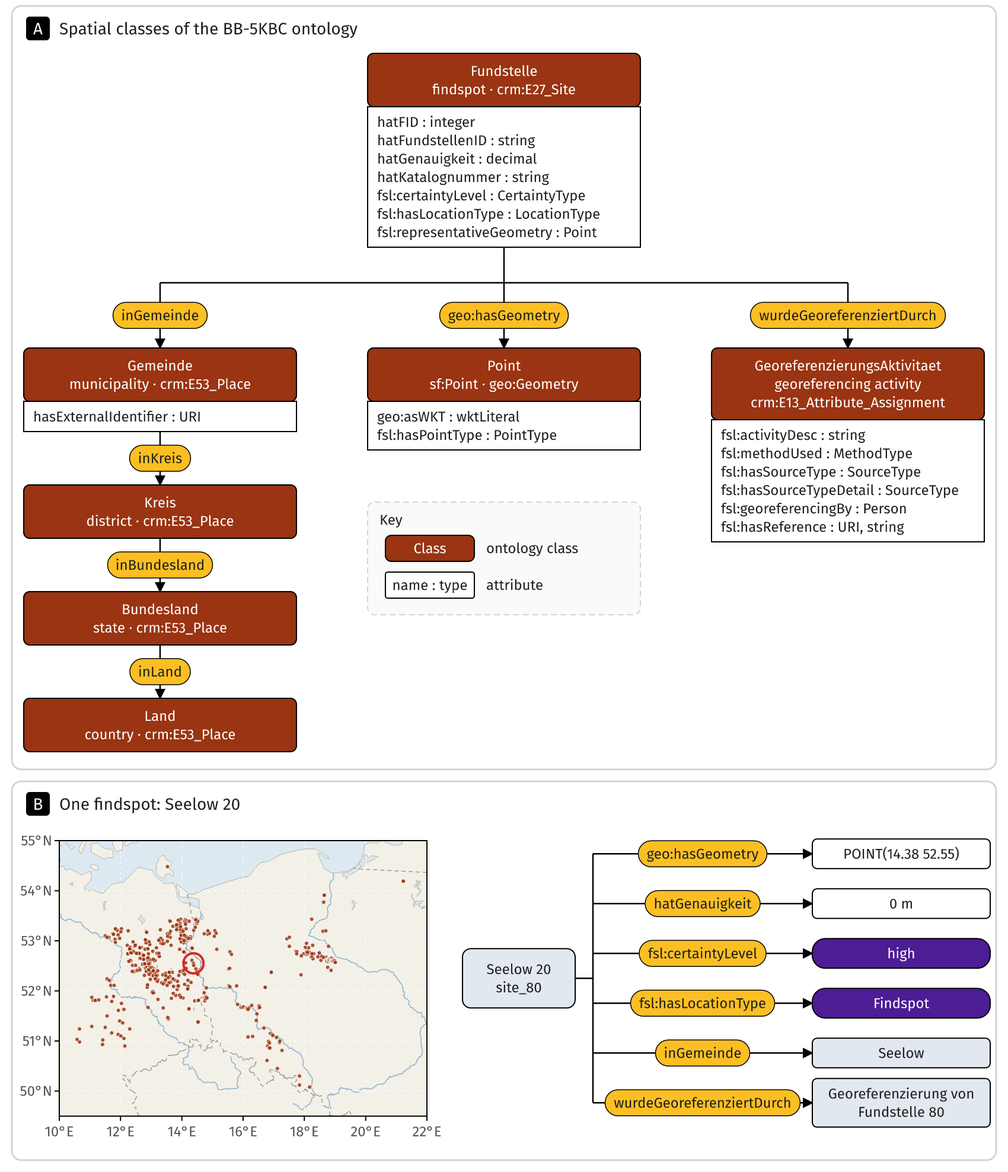
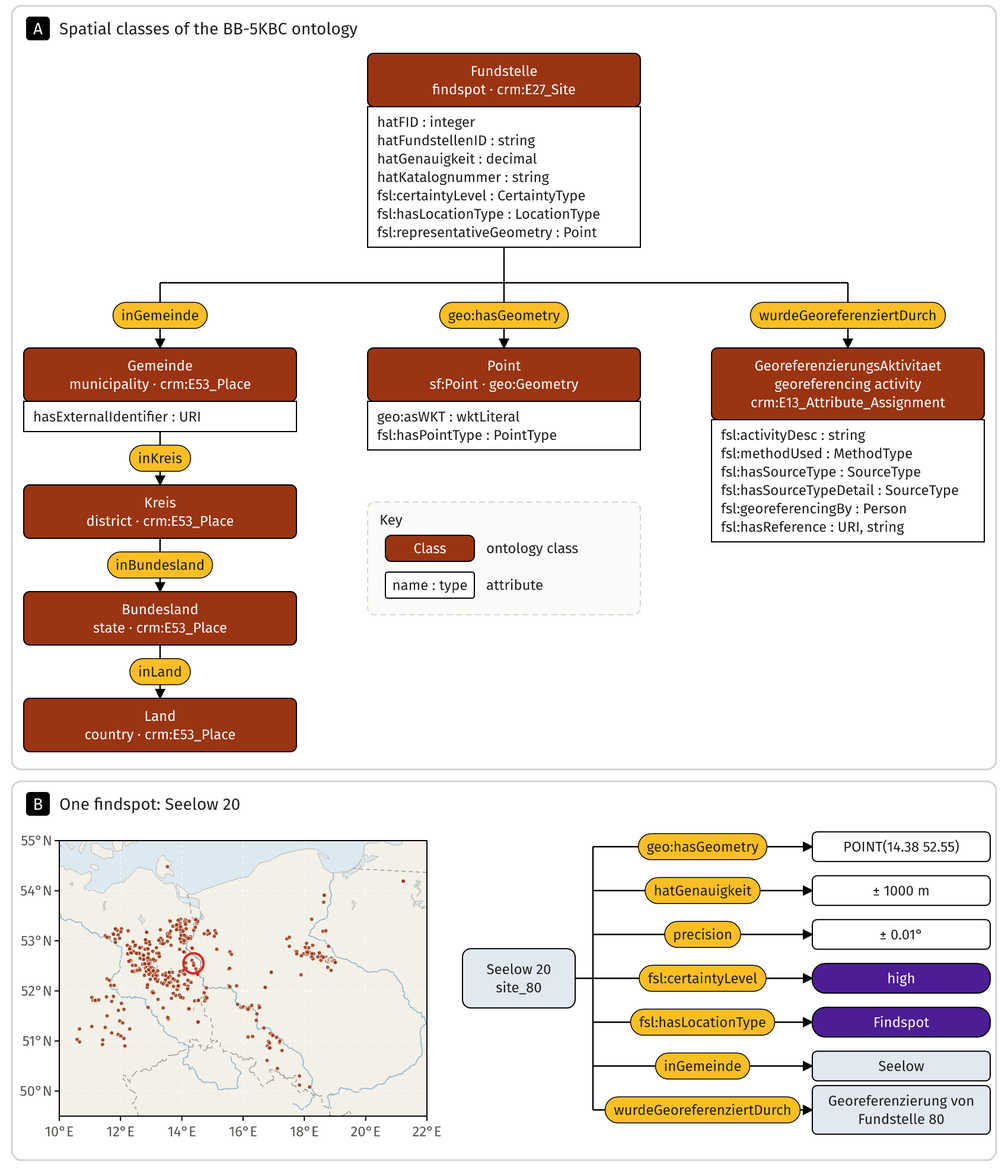
Fig. 5: accuracy +-1000 m and precision +-0.01 degrees for Seelow 20
Claude-Session: https://claude.ai/code/session_0145BdeBL6JEDb3HE12Py9VZ

Changed region(s): [[0.5924, 0.7097, 0.9976, 0.9874]]

diff --git a/docs/derse26_geographs/index.html b/docs/derse26_geographs/index.html
@@ -16,7 +16,7 @@ figure.new{border-color:#c2410c;background:#fff}figcaption{font-weight:500;color
 </style></head><body>
 <header><h1>From Relations to Graphs: figures, submitted and new</h1><div class="meta">deRSE26 / ECEASST, revision of November 2026. Click an image to enlarge, Esc or click to close.</div></header>
 <main><table><tr><td><b>No.</b></td><td><b>Figure</b></td><td><b>Section</b></td><td><b>Status</b></td></tr><tr><td><a href="#fig1">Fig. 1</a></td><td>Federated Knowledge Graph Ecosystem</td><td>§1 Introduction</td><td><span class="chip" style="background:#55544f">keep as submitted</span></td></tr><tr><td><a href="#fig2">Fig. 2</a></td><td>Ogham stone in Wikidata and the fuzzy-sl Wikibase</td><td>§5.1 Wikidata</td><td><span class="chip" style="background:#55544f">keep as submitted</span></td></tr><tr><td><a href="#fig3">Fig. 3</a></td><td>Schematic data model of the fuzzy-sl Wikibase</td><td>§5.2 fuzzy-sl</td><td><span class="chip" style="background:#166534">new figure ready</span></td></tr><tr><td><a href="#fig4">Fig. 4</a></td><td>Campanian Ignimbrite findspots in the fuzzy-sl Wikibase</td><td>§5.2 fuzzy-sl</td><td><span class="chip" style="background:#166534">new figure ready</span></td></tr><tr><td><a href="#fig5">Fig. 5</a></td><td>The bb5kbc ontology (spatial part)</td><td>§5.3 BB-5KBC</td><td><span class="chip" style="background:#166534">new figure ready</span></td></tr><tr><td><a href="#fig6">Fig. 6</a></td><td>Ontology scheme of the palaeoclimate pipeline</td><td>§5.4 Pipeline</td><td><span class="chip" style="background:#166534">new figure ready</span></td></tr><tr><td><a href="#fig7">Fig. 7</a></td><td>CI instances</td><td>§5.4 Pipeline</td><td><span class="chip" style="background:#166534">new figure ready</span></td></tr><tr><td><a href="#fig8">Fig. 8</a></td><td>Big Exchange meta path</td><td>§5.6 HIN</td><td><span class="chip" style="background:#55544f">keep as submitted</span></td></tr><tr><td><a href="#fig9">Fig. 9</a></td><td>ArNO ontology modules</td><td>§5.7 HIN to KG</td><td><span class="chip" style="background:#55544f">keep as submitted</span></td></tr><tr><td><a href="#fig10">Fig. 10</a></td><td>Mapping of HIN node types to ArNO classes</td><td>§5.7 HIN to KG</td><td><span class="chip" style="background:#166534">new figure ready</span></td></tr><tr><td><a href="#z2">Z2</a></td><td>One Ogham stone in five modelling styles</td><td>§3 or §4 (placement open)</td><td><span class="chip" style="background:#166534">new figure ready</span></td></tr><tr><td><a href="#z3">Z3</a></td><td>Where the showcases are</td><td>§5 (overview)</td><td><span class="chip" style="background:#166534">new figure ready</span></td></tr></table>
-<section id="fig1"><h2><span class="num">Fig. 1</span> Federated Knowledge Graph Ecosystem <span class="chip" style="background:#55544f">keep as submitted</span></h2><p class="sec">§1 Introduction</p><div class="pair"><figure><figcaption>Submitted</figcaption><a href="gallery/old/fkge.jpg" class="zoom "><img loading="lazy" src="gallery/old/fkge.jpg" alt="Federated Knowledge Graph Ecosystem"></a><p class="cap">Scheme of the Federated Knowledge Graph Ecosystem. Licence -- Florian Thiery &amp; Andreas Noback, CC BY 4.0</p></figure><figure class="new none"><figcaption>New</figcaption><div class="empty">no new version yet</div></figure></div><ul><li>Source: thiery_stones_2026, Fig. 1</li><li>Typo &quot;Publikation&quot; in the image (to be fixed at the source)</li></ul></section><section id="fig2"><h2><span class="num">Fig. 2</span> Ogham stone in Wikidata and the fuzzy-sl Wikibase <span class="chip" style="background:#55544f">keep as submitted</span></h2><p class="sec">§5.1 Wikidata</p><div class="pair"><figure><figcaption>Submitted</figcaption><a href="gallery/old/ogham-wikidata.jpg" class="zoom "><img loading="lazy" src="gallery/old/ogham-wikidata.jpg" alt="Ogham stone in Wikidata and the fuzzy-sl Wikibase"></a><p class="cap">Ogham Stone CIIC 81 and its spatial locations in Wikidata and the fuzzy-sl Wikibase. Licence -- Florian Thiery, CC BY 4.0; (A) Wikidata Community, Public Domain; (B) Florian Thiery, CC BY-NC-SA 4.0; (C/E) Research Squirrel Engineers Network, CC BY 4.0; (E) \copyright~\&#x27;O R\&#x27;{\i}ord\&#x27;ain and Ryan; (F) OpenStreetMap Contributors, Open Database License.</p></figure><figure class="new none"><figcaption>New</figcaption><div class="empty">no new version yet</div></figure></div><ul><li>Screenshots; z2 (below) can complement it as a model comparison</li><li>Reviewer C refers to &quot;Section 5, Figure 2&quot;: probably this figure (assumption)</li></ul></section><section id="fig3"><h2><span class="num">Fig. 3</span> Schematic data model of the fuzzy-sl Wikibase <span class="chip" style="background:#166534">new figure ready</span></h2><p class="sec">§5.2 fuzzy-sl</p><div class="pair"><figure><figcaption>Submitted</figcaption><a href="gallery/old/fuzzy-sl_Wikibase.jpg" class="zoom "><img loading="lazy" src="gallery/old/fuzzy-sl_Wikibase.jpg" alt="Schematic data model of the fuzzy-sl Wikibase"></a><p class="cap">Schematic data model of the fuzzy-sl Wikibase. License -- Florian Thiery, CC BY 4.0.</p></figure><figure class="new"><figcaption>New</figcaption><a href="out/fig3_fuzzysl_datamodel.png" class="zoom "><img loading="lazy" src="out/fig3_fuzzysl_datamodel.png" alt="Schematic data model of the fuzzy-sl Wikibase"></a><p class="cap">Data model of the fuzzy-sl Wikibase. (GLM) Geolocation metadata: a fuzzy-sl entity has a label and a description and is described by its instance type (P1), project (P3), literature reference (P11), related external resource with its relation type (P10, qP12), spatial type (P8), spatial category (P26), the administrative territorial entity in Wikidata (P32) and its coordinate (P4). (CM) Coordinate metadata: the coordinate statement carries ten qualifiers (solid arrows: certainty level and description, method used and description, acting person, source type in generic and detailed form, location type, point type and precision) and three reference properties (dashed arrows: reference URL, reference string, reference item). Grey: instance; purple: vocabulary item with its Q number; dashed outline: external resource; white: literal; black: coordinate. Property labels and classes are those of the static copy of the fuzzy-sl Wikibase. Licence: Florian Thiery, CC BY 4.0.</p></figure></div><ul><li>Redrawn after the old picture (same nodes, properties and arrows); labels, datatypes and classes read from the static Wikibase copy</li><li>Same model as Fig. 4B of Thiery et al. 2026 (JOHD 12:10); P26 (has spatial category) added because the old picture omitted it</li><li>Layout stacked (GLM above CM) because 24 px type needs the width; the old picture placed CM left of GLM</li></ul></section><section id="fig4"><h2><span class="num">Fig. 4</span> Campanian Ignimbrite findspots in the fuzzy-sl Wikibase <span class="chip" style="background:#166534">new figure ready</span></h2><p class="sec">§5.2 fuzzy-sl</p><div class="pair"><figure><figcaption>Submitted</figcaption><a href="gallery/old/ci-fuzzy-sl-wikibase.jpg" class="zoom "><img loading="lazy" src="gallery/old/ci-fuzzy-sl-wikibase.jpg" alt="Campanian Ignimbrite findspots in the fuzzy-sl Wikibase"></a><p class="cap">Geospatial modelling of Campanian Ignimbrite Findspots within the fuzzy-sl Wikibase. Licence -- Florian Thiery &amp; Fiona Schenk, CC BY 4.0; OSM maps: OpenStreetMap Contributors, Open Database License.</p></figure><figure class="new"><figcaption>New</figcaption><a href="out/fig4_ci_findspots.png" class="zoom "><img loading="lazy" src="out/fig4_ci_findspots.png" alt="Campanian Ignimbrite findspots in the fuzzy-sl Wikibase"></a><p class="cap">Campanian Ignimbrite findspots in the geo-lod graph and one coordinate statement in the fuzzy-sl Wikibase. (A) The 74 findspots, distinguished by whether they are typed as archaeological sites (12) or not (62); dashed rings mark 500 km and 1000 km from the Phlegraean Fields, the source area of the eruption. (B) The coordinate statement of Auel Maar AU3 (Q70) with its qualifiers: certainty level and description, method, acting person, source type, precision, location and point type, and the literature reference. Purple: vocabulary terms; grey: items; white: literals. The inset map shows the Eifel around the Auel Maar with rivers, borders, Cologne and Daun. Licence: Florian Thiery and Fiona Schenk, CC BY 4.0; base map: Natural Earth, public domain.</p></figure></div><ul><li>v3: archaeology vs. other, Auel Maar AU3 from the static Wikibase copy, minimap</li><li>Static Wikibase has 19 CI items, the graph 74</li></ul></section><section id="fig5"><h2><span class="num">Fig. 5</span> The bb5kbc ontology (spatial part) <span class="chip" style="background:#166534">new figure ready</span></h2><p class="sec">§5.3 BB-5KBC</p><div class="pair"><figure><figcaption>Submitted</figcaption><a href="gallery/old/bb-5kbc-ontology.jpg" class="zoom "><img loading="lazy" src="gallery/old/bb-5kbc-ontology.jpg" alt="The bb5kbc ontology (spatial part)"></a><p class="cap">The bb5kbc Ontology. Licence -- Florian Thiery &amp; Sophie C. Schmidt, CC BY 4.0.</p></figure><figure class="new"><figcaption>New</figcaption><a href="out/fig5_bb5kbc_spatial.png" class="zoom "><img loading="lazy" src="out/fig5_bb5kbc_spatial.png" alt="The bb5kbc ontology (spatial part)"></a><p class="cap">Spatial part of the BB-5KBC ontology. (A) Classes and properties around the place of a findspot: a Fundstelle (CIDOC CRM E27 Site) lies in a municipality (Gemeinde), district (Kreis), federal state (Bundesland) and country (Land), has a GeoSPARQL point geometry with a WKT literal, and was georeferenced by a georeferencing activity (E13 Attribute Assignment) that records method, source type and person. Dark orange: classes; white boxes: attributes with their datatypes; amber: properties. (B) One of the 540 findspots, Pyritz – Weinberg, on the map and as an instance: the point geometry, its accuracy, the certainty level and location type from the fuzzy-sl vocabulary, the municipality and the georeferencing activity. Data: BB-5KBC bundle (commit c2e989b); base map: Natural Earth. Licence: Florian Thiery &amp; Sophie C. Schmidt, CC BY 4.0.</p></figure></div><ul><li>Redrawn from data/bb5kbc-bundle.ttl (bb-5kbc-public, commit c2e989b, 2026-09-15; 540 findspots); the old picture was a Mermaid class diagram</li><li>Geo focus: only the spatial classes (Fundstelle, Gemeinde, Kreis, Bundesland, Land, Point, GeoreferenzierungsAktivitaet); the non-geo classes are omitted and could go into a supplement version</li><li>The data model has changed since the old picture (geo:hasGeometry, fsl certainty and location type, georeferencing activity); every property is asserted against the bundle</li></ul></section><section id="fig6"><h2><span class="num">Fig. 6</span> Ontology scheme of the palaeoclimate pipeline <span class="chip" style="background:#166534">new figure ready</span></h2><p class="sec">§5.4 Pipeline</p><div class="pair"><figure><figcaption>Submitted</figcaption><a href="gallery/old/taxonomy.jpg" class="zoom "><img loading="lazy" src="gallery/old/taxonomy.jpg" alt="Ontology scheme of the palaeoclimate pipeline"></a><p class="cap">Ontology Scheme of the Palaeoclimate Data Processing Pipeline (GeoSciece-FAIRification-LOD). Licence -- Florian Thiery &amp; Fiona Schenk, CC BY 4.0.</p></figure><figure class="new"><figcaption>New</figcaption><a href="out/fig6_place_taxonomy.png" class="zoom "><img loading="lazy" src="out/fig6_place_taxonomy.png" alt="Ontology scheme of the palaeoclimate pipeline"></a><p class="cap">Modelling places in the geo-lod ontologies. (A) The place classes and their anchors in CIDOC CRM, CRMarchaeo and fuzzy-sl; hollow arrows are rdfs:subClassOf statements of the ontology files (geo_lod_core.ttl, crm_bridging.ttl, sisal_ontology.ttl, epica_ontology.ttl). Sampling locations (drilling site, borehole, cave) and Campanian Ignimbrite findspots both specialise crm:E27_Site; the archaeological variants additionally inherit from crmarchaeo:A2_Stratigraphic_Volume_Unit. (B) The geometry of a place: a geo:Feature has a geo:Geometry (sf:Point, which CRMgeo reads as a declarative place; its inheritance from geo:Geometry is defined by GeoSPARQL and Simple Features, not by the ontology files) whose coordinates are a geo:wktLiteral. Dark orange: classes of the geo-lod ontologies; white: external classes; amber: property. Licence: Florian Thiery and Fiona Schenk, CC BY 4.0.</p></figure></div><ul><li>Slice: place classes and geometry pattern; the full scheme could move to the supplement</li><li>&quot;GeoSciece&quot; typo disappears with the new figure</li></ul></section><section id="fig7"><h2><span class="num">Fig. 7</span> CI instances <span class="chip" style="background:#166534">new figure ready</span></h2><p class="sec">§5.4 Pipeline</p><div class="pair"><figure><figcaption>Submitted</figcaption><a href="gallery/old/instance_ci.jpg" class="zoom "><img loading="lazy" src="gallery/old/instance_ci.jpg" alt="CI instances"></a><p class="cap">CI Instances Scheme. Licence -- Florian Thiery &amp; Fiona Schenk, CC BY 4.0.</p></figure><figure class="new"><figcaption>New</figcaption><a href="out/fig7_ci_instances.png" class="zoom "><img loading="lazy" src="out/fig7_ci_instances.png" alt="CI instances"></a><p class="cap">Two Campanian Ignimbrite findspots as instances in the geo-lod graph: (A) Toplitsa Cave (Bulgaria, ci:cisite_44) and (B) Franchthi Cave (Greece, ci:cisite_45). Both are typed as fsl:Site and geolod:CIArchaeologicalSite (a selection of their types is shown), carry the geometry as an sf:Point with a geo:asWKT literal and the fuzzy-sl certainty level, certainty description and literature reference, are aligned to Wikidata and OpenStreetMap via skos:closeMatch, and name the pipeline activity that generated them. The coordinate reference system prefix of the WKT literal is omitted. Colours: dark orange classes, purple vocabulary terms, grey instances, white literals. Minimaps: all 74 findspots (filled: archaeological site), the findspot of the panel ringed in red; country borders and major rivers from Natural Earth. Licence: Florian Thiery and Fiona Schenk, CC BY 4.0.</p></figure></div><ul><li>Toplitsa and Franchthi, every value read from the graph</li><li>Text says 9 archaeological sites, the graph has 12</li></ul></section><section id="fig8"><h2><span class="num">Fig. 8</span> Big Exchange meta path <span class="chip" style="background:#55544f">keep as submitted</span></h2><p class="sec">§5.6 HIN</p><div class="pair"><figure><figcaption>Submitted</figcaption><a href="gallery/old/BigExchangeMetaPath.jpg" class="zoom "><img loading="lazy" src="gallery/old/BigExchangeMetaPath.jpg" alt="Big Exchange meta path"></a><p class="cap">The meta path connecting two materials through finds of these materials that are found in sites with geolocations that share a spatially similar geolocation. Licence -- Mattis thor Straten et al., CC BY 4.0.</p></figure><figure class="new none"><figcaption>New</figcaption><div class="empty">no new version yet</div></figure></div><ul><li>From thor Straten et al. (CC BY 4.0); keeps its own look</li></ul></section><section id="fig9"><h2><span class="num">Fig. 9</span> ArNO ontology modules <span class="chip" style="background:#55544f">keep as submitted</span></h2><p class="sec">§5.7 HIN to KG</p><div class="pair"><figure><figcaption>Submitted</figcaption><a href="gallery/old/ARNO.jpg" class="zoom "><img loading="lazy" src="gallery/old/ARNO.jpg" alt="ArNO ontology modules"></a><p class="cap">The ontologies combined in the ArNO ontology grouped by the concept domain they are used for. Licence -- Mattis thor Straten et al., CC BY 4.0.</p></figure><figure class="new none"><figcaption>New</figcaption><div class="empty">no new version yet</div></figure></div><ul><li>Low resolution (644 x 671 px): ask for a better source</li></ul></section><section id="fig10"><h2><span class="num">Fig. 10</span> Mapping of HIN node types to ArNO classes <span class="chip" style="background:#166534">new figure ready</span></h2><p class="sec">§5.7 HIN to KG</p><div class="pair"><figure><figcaption>Submitted</figcaption><a href="gallery/old/ARNONetworkSchema.jpg" class="zoom "><img loading="lazy" src="gallery/old/ARNONetworkSchema.jpg" alt="Mapping of HIN node types to ArNO classes"></a><p class="cap">The mapping of the spatial node types of the HIN networks schema (on the right) to the hierarchical ArNO ontology classes. Licence -- Mattis thor Straten et al., CC BY 4.0.</p></figure><figure class="new"><figcaption>New</figcaption><a href="out/fig10_arno_spatial.png" class="zoom "><img loading="lazy" src="out/fig10_arno_spatial.png" alt="Mapping of HIN node types to ArNO classes"></a><p class="cap">Spatial classes of the Archaeo-Natural Ontology (ArNO) and their use in the Poseidon network schema. (A) Class hierarchy: hollow arrows point from a subclass to its superclass; the four classes defined in ArNO (red outline, Discovery Site, Site, Place, Country) sit below the Pleiades, LADO, GeoSPARQL and CIDOC CRM classes that they extend. (B) The spatial node types of the Poseidon network: an ancient DNA sample is found at a discovery site, which lies at a site, at a place, in a country; the discovery site has a point geometry with a WKT literal, and the nodes carry labels and, for the country, an ISO code. Dark orange: classes; white: literals; amber: object and data properties. Redrawn after Mattis thor Straten et al. (2025) from ArNO and poseidon2lod. Licence: Mattis thor Straten and Florian Thiery, CC BY 4.0.</p></figure></div><ul><li>Redrawn from data/ArNO.ttl (commit 5b1ad40) and poseidon2lod; the old picture mixed a Protege screenshot with a slide</li><li>Differences to the old picture (to be checked with Mattis thor Straten): only the Discovery Site has a geometry in poseidon2lod (the old picture also gave the Site a WKT point); ArNO.ttl spells disovery in the label of foundAtDiscoverySite (corrected in the figure)</li><li>Licence of the old picture: Mattis thor Straten et al., CC BY 4.0; the new figure is a redraw, say so in the caption</li></ul></section><section id="z2"><h2><span class="num">New Z2</span> One Ogham stone in five modelling styles <span class="chip" style="background:#166534">new figure ready</span></h2><p class="sec">§3 or §4 (placement open)</p><div class="pair single"><figure class="new"><a href="out/z2_one_stone_five_models.png" class="zoom "><img loading="lazy" src="out/z2_one_stone_five_models.png" alt="One Ogham stone in five modelling styles"></a><p class="cap">One coordinate in five modelling styles, shown for the Ogham stone Coumeenole North (Macalister 1945, textual description). (A) Wikidata: coordinate location with its qualifiers. (B) fuzzy-sl Wikibase: the coordinate statement carries certainty level, method, precision and location type as qualifiers. (C) RDF with GeoSPARQL: the point is a geo:asWKT literal of a geometry resource. (D) Labelled property graph: the point is a property of the node. (E) Heterogeneous information network: the point is a node of its own, so that nearby geolocations can be linked by distance classes. Red outline: where the coordinate sits. Data: Wikidata (CC0), fuzzy-sl Wikibase, Florian Thiery, CC BY 4.0.</p></figure></div><ul><li>Panel A read from data/wd/ (fetch_wd.py, run on the Windows machine)</li></ul></section><section id="z3"><h2><span class="num">New Z3</span> Where the showcases are <span class="chip" style="background:#166534">new figure ready</span></h2><p class="sec">§5 (overview)</p><div class="pair single"><figure class="new"><a href="out/z3_showcase_map.png" class="zoom "><img loading="lazy" src="out/z3_showcase_map.png" alt="Where the showcases are"></a><p class="cap">Where the spatial showcases are. (A) Europe and the Mediterranean: coordinate statements of the fuzzy-sl Wikibase (61; Ogham stones, Roman Britain, Bruttium coin finds, Campanian Ignimbrite and others), the Campanian Ignimbrite findspots of the geo-lod graph (74) and the BB-5KBC findspots (540). (B) The 365 SISAL caves of the geo-lod graph; the red frame marks panel A. The property-graph and HIN showcases are not mapped because they have no point dataset of their own. Base map: Natural Earth, public domain.</p></figure></div><ul><li>Colour = infrastructure (Wikibase vs. bespoke RDF pipeline); LPG and HIN showcases have no point data</li></ul></section><section id="unused"><h2><span class="num">Not used</span> Map of the Moselle (not referenced in the LaTeX source)</h2><div class="pair single"><figure><a href="gallery/old/moselkarte.jpg" class="zoom "><img loading="lazy" src="gallery/old/moselkarte.jpg" alt="Map of the Moselle (not referenced in the LaTeX source)"></a></figure></div><ul><li>Decision pending: drop it or use it as an orientation map</li></ul></section></main>
+<section id="fig1"><h2><span class="num">Fig. 1</span> Federated Knowledge Graph Ecosystem <span class="chip" style="background:#55544f">keep as submitted</span></h2><p class="sec">§1 Introduction</p><div class="pair"><figure><figcaption>Submitted</figcaption><a href="gallery/old/fkge.jpg" class="zoom "><img loading="lazy" src="gallery/old/fkge.jpg" alt="Federated Knowledge Graph Ecosystem"></a><p class="cap">Scheme of the Federated Knowledge Graph Ecosystem. Licence -- Florian Thiery &amp; Andreas Noback, CC BY 4.0</p></figure><figure class="new none"><figcaption>New</figcaption><div class="empty">no new version yet</div></figure></div><ul><li>Source: thiery_stones_2026, Fig. 1</li><li>Typo &quot;Publikation&quot; in the image (to be fixed at the source)</li></ul></section><section id="fig2"><h2><span class="num">Fig. 2</span> Ogham stone in Wikidata and the fuzzy-sl Wikibase <span class="chip" style="background:#55544f">keep as submitted</span></h2><p class="sec">§5.1 Wikidata</p><div class="pair"><figure><figcaption>Submitted</figcaption><a href="gallery/old/ogham-wikidata.jpg" class="zoom "><img loading="lazy" src="gallery/old/ogham-wikidata.jpg" alt="Ogham stone in Wikidata and the fuzzy-sl Wikibase"></a><p class="cap">Ogham Stone CIIC 81 and its spatial locations in Wikidata and the fuzzy-sl Wikibase. Licence -- Florian Thiery, CC BY 4.0; (A) Wikidata Community, Public Domain; (B) Florian Thiery, CC BY-NC-SA 4.0; (C/E) Research Squirrel Engineers Network, CC BY 4.0; (E) \copyright~\&#x27;O R\&#x27;{\i}ord\&#x27;ain and Ryan; (F) OpenStreetMap Contributors, Open Database License.</p></figure><figure class="new none"><figcaption>New</figcaption><div class="empty">no new version yet</div></figure></div><ul><li>Screenshots; z2 (below) can complement it as a model comparison</li><li>Reviewer C refers to &quot;Section 5, Figure 2&quot;: probably this figure (assumption)</li></ul></section><section id="fig3"><h2><span class="num">Fig. 3</span> Schematic data model of the fuzzy-sl Wikibase <span class="chip" style="background:#166534">new figure ready</span></h2><p class="sec">§5.2 fuzzy-sl</p><div class="pair"><figure><figcaption>Submitted</figcaption><a href="gallery/old/fuzzy-sl_Wikibase.jpg" class="zoom "><img loading="lazy" src="gallery/old/fuzzy-sl_Wikibase.jpg" alt="Schematic data model of the fuzzy-sl Wikibase"></a><p class="cap">Schematic data model of the fuzzy-sl Wikibase. License -- Florian Thiery, CC BY 4.0.</p></figure><figure class="new"><figcaption>New</figcaption><a href="out/fig3_fuzzysl_datamodel.png" class="zoom "><img loading="lazy" src="out/fig3_fuzzysl_datamodel.png" alt="Schematic data model of the fuzzy-sl Wikibase"></a><p class="cap">Data model of the fuzzy-sl Wikibase. (GLM) Geolocation metadata: a fuzzy-sl entity has a label and a description and is described by its instance type (P1), project (P3), literature reference (P11), related external resource with its relation type (P10, qP12), spatial type (P8), spatial category (P26), the administrative territorial entity in Wikidata (P32) and its coordinate (P4). (CM) Coordinate metadata: the coordinate statement carries ten qualifiers (solid arrows: certainty level and description, method used and description, acting person, source type in generic and detailed form, location type, point type and precision) and three reference properties (dashed arrows: reference URL, reference string, reference item). Grey: instance; purple: vocabulary item with its Q number; dashed outline: external resource; white: literal; black: coordinate. Property labels and classes are those of the static copy of the fuzzy-sl Wikibase. Licence: Florian Thiery, CC BY 4.0.</p></figure></div><ul><li>Redrawn after the old picture (same nodes, properties and arrows); labels, datatypes and classes read from the static Wikibase copy</li><li>Same model as Fig. 4B of Thiery et al. 2026 (JOHD 12:10); P26 (has spatial category) added because the old picture omitted it</li><li>Layout stacked (GLM above CM) because 24 px type needs the width; the old picture placed CM left of GLM</li></ul></section><section id="fig4"><h2><span class="num">Fig. 4</span> Campanian Ignimbrite findspots in the fuzzy-sl Wikibase <span class="chip" style="background:#166534">new figure ready</span></h2><p class="sec">§5.2 fuzzy-sl</p><div class="pair"><figure><figcaption>Submitted</figcaption><a href="gallery/old/ci-fuzzy-sl-wikibase.jpg" class="zoom "><img loading="lazy" src="gallery/old/ci-fuzzy-sl-wikibase.jpg" alt="Campanian Ignimbrite findspots in the fuzzy-sl Wikibase"></a><p class="cap">Geospatial modelling of Campanian Ignimbrite Findspots within the fuzzy-sl Wikibase. Licence -- Florian Thiery &amp; Fiona Schenk, CC BY 4.0; OSM maps: OpenStreetMap Contributors, Open Database License.</p></figure><figure class="new"><figcaption>New</figcaption><a href="out/fig4_ci_findspots.png" class="zoom "><img loading="lazy" src="out/fig4_ci_findspots.png" alt="Campanian Ignimbrite findspots in the fuzzy-sl Wikibase"></a><p class="cap">Campanian Ignimbrite findspots in the geo-lod graph and one coordinate statement in the fuzzy-sl Wikibase. (A) The 74 findspots, distinguished by whether they are typed as archaeological sites (12) or not (62); dashed rings mark 500 km and 1000 km from the Phlegraean Fields, the source area of the eruption. (B) The coordinate statement of Auel Maar AU3 (Q70) with its qualifiers: certainty level and description, method, acting person, source type, precision, location and point type, and the literature reference. Purple: vocabulary terms; grey: items; white: literals. The inset map shows the Eifel around the Auel Maar with rivers, borders, Cologne and Daun. Licence: Florian Thiery and Fiona Schenk, CC BY 4.0; base map: Natural Earth, public domain.</p></figure></div><ul><li>v3: archaeology vs. other, Auel Maar AU3 from the static Wikibase copy, minimap</li><li>Static Wikibase has 19 CI items, the graph 74</li></ul></section><section id="fig5"><h2><span class="num">Fig. 5</span> The bb5kbc ontology (spatial part) <span class="chip" style="background:#166534">new figure ready</span></h2><p class="sec">§5.3 BB-5KBC</p><div class="pair"><figure><figcaption>Submitted</figcaption><a href="gallery/old/bb-5kbc-ontology.jpg" class="zoom "><img loading="lazy" src="gallery/old/bb-5kbc-ontology.jpg" alt="The bb5kbc ontology (spatial part)"></a><p class="cap">The bb5kbc Ontology. Licence -- Florian Thiery &amp; Sophie C. Schmidt, CC BY 4.0.</p></figure><figure class="new"><figcaption>New</figcaption><a href="out/fig5_bb5kbc_spatial.png" class="zoom "><img loading="lazy" src="out/fig5_bb5kbc_spatial.png" alt="The bb5kbc ontology (spatial part)"></a><p class="cap">Spatial part of the BB-5KBC ontology. (A) Classes and properties around the place of a findspot: a Fundstelle (CIDOC CRM E27 Site) lies in a municipality (Gemeinde, with external identifiers such as Wikidata, GeoNames, Getty TGN and OpenStreetMap), district (Kreis), federal state (Bundesland) and country (Land); it has a GeoSPARQL point geometry with a WKT literal, and it was georeferenced by a georeferencing activity (E13 Attribute Assignment) that records method, source type and person. Dark orange: classes; white boxes: attributes with their datatypes; amber: properties. (B) One of the 540 findspots, Seelow 20 (red ring on the map), as an instance: the point geometry, its accuracy, the certainty level and location type from the fuzzy-sl vocabulary, the municipality and the georeferencing activity. Data: BB-5KBC bundle (commit c2e989b); base map: Natural Earth. Licence: Florian Thiery &amp; Sophie C. Schmidt, CC BY 4.0.</p></figure></div><ul><li>Redrawn from data/bb5kbc-bundle.ttl (bb-5kbc-public, commit c2e989b, 2026-09-15; 540 findspots); the old picture was a Mermaid class diagram</li><li>Example findspot: Seelow 20 (site_80); its stored accuracy is 0 m although the JCM 2026 slides describe published coordinates as rounded to 2 decimals (about 1000 m): check the value</li><li>Geo focus: only the spatial classes (Fundstelle, Gemeinde, Kreis, Bundesland, Land, Point, GeoreferenzierungsAktivitaet); the non-geo classes are omitted and could go into a supplement version</li><li>The data model has changed since the old picture (geo:hasGeometry, fsl certainty and location type, georeferencing activity); every property is asserted against the bundle</li></ul></section><section id="fig6"><h2><span class="num">Fig. 6</span> Ontology scheme of the palaeoclimate pipeline <span class="chip" style="background:#166534">new figure ready</span></h2><p class="sec">§5.4 Pipeline</p><div class="pair"><figure><figcaption>Submitted</figcaption><a href="gallery/old/taxonomy.jpg" class="zoom "><img loading="lazy" src="gallery/old/taxonomy.jpg" alt="Ontology scheme of the palaeoclimate pipeline"></a><p class="cap">Ontology Scheme of the Palaeoclimate Data Processing Pipeline (GeoSciece-FAIRification-LOD). Licence -- Florian Thiery &amp; Fiona Schenk, CC BY 4.0.</p></figure><figure class="new"><figcaption>New</figcaption><a href="out/fig6_place_taxonomy.png" class="zoom "><img loading="lazy" src="out/fig6_place_taxonomy.png" alt="Ontology scheme of the palaeoclimate pipeline"></a><p class="cap">Modelling places in the geo-lod ontologies. (A) The place classes and their anchors in CIDOC CRM, CRMarchaeo and fuzzy-sl; hollow arrows are rdfs:subClassOf statements of the ontology files (geo_lod_core.ttl, crm_bridging.ttl, sisal_ontology.ttl, epica_ontology.ttl). Sampling locations (drilling site, borehole, cave) and Campanian Ignimbrite findspots both specialise crm:E27_Site; the archaeological variants additionally inherit from crmarchaeo:A2_Stratigraphic_Volume_Unit. (B) The geometry of a place: a geo:Feature has a geo:Geometry (sf:Point, which CRMgeo reads as a declarative place; its inheritance from geo:Geometry is defined by GeoSPARQL and Simple Features, not by the ontology files) whose coordinates are a geo:wktLiteral. Dark orange: classes of the geo-lod ontologies; white: external classes; amber: property. Licence: Florian Thiery and Fiona Schenk, CC BY 4.0.</p></figure></div><ul><li>Slice: place classes and geometry pattern; the full scheme could move to the supplement</li><li>&quot;GeoSciece&quot; typo disappears with the new figure</li></ul></section><section id="fig7"><h2><span class="num">Fig. 7</span> CI instances <span class="chip" style="background:#166534">new figure ready</span></h2><p class="sec">§5.4 Pipeline</p><div class="pair"><figure><figcaption>Submitted</figcaption><a href="gallery/old/instance_ci.jpg" class="zoom "><img loading="lazy" src="gallery/old/instance_ci.jpg" alt="CI instances"></a><p class="cap">CI Instances Scheme. Licence -- Florian Thiery &amp; Fiona Schenk, CC BY 4.0.</p></figure><figure class="new"><figcaption>New</figcaption><a href="out/fig7_ci_instances.png" class="zoom "><img loading="lazy" src="out/fig7_ci_instances.png" alt="CI instances"></a><p class="cap">Two Campanian Ignimbrite findspots as instances in the geo-lod graph: (A) Toplitsa Cave (Bulgaria, ci:cisite_44) and (B) Franchthi Cave (Greece, ci:cisite_45). Both are typed as fsl:Site and geolod:CIArchaeologicalSite (a selection of their types is shown), carry the geometry as an sf:Point with a geo:asWKT literal and the fuzzy-sl certainty level, certainty description and literature reference, are aligned to Wikidata and OpenStreetMap via skos:closeMatch, and name the pipeline activity that generated them. The coordinate reference system prefix of the WKT literal is omitted. Colours: dark orange classes, purple vocabulary terms, grey instances, white literals. Minimaps: all 74 findspots (filled: archaeological site), the findspot of the panel ringed in red; country borders and major rivers from Natural Earth. Licence: Florian Thiery and Fiona Schenk, CC BY 4.0.</p></figure></div><ul><li>Toplitsa and Franchthi, every value read from the graph</li><li>Text says 9 archaeological sites, the graph has 12</li></ul></section><section id="fig8"><h2><span class="num">Fig. 8</span> Big Exchange meta path <span class="chip" style="background:#55544f">keep as submitted</span></h2><p class="sec">§5.6 HIN</p><div class="pair"><figure><figcaption>Submitted</figcaption><a href="gallery/old/BigExchangeMetaPath.jpg" class="zoom "><img loading="lazy" src="gallery/old/BigExchangeMetaPath.jpg" alt="Big Exchange meta path"></a><p class="cap">The meta path connecting two materials through finds of these materials that are found in sites with geolocations that share a spatially similar geolocation. Licence -- Mattis thor Straten et al., CC BY 4.0.</p></figure><figure class="new none"><figcaption>New</figcaption><div class="empty">no new version yet</div></figure></div><ul><li>From thor Straten et al. (CC BY 4.0); keeps its own look</li></ul></section><section id="fig9"><h2><span class="num">Fig. 9</span> ArNO ontology modules <span class="chip" style="background:#55544f">keep as submitted</span></h2><p class="sec">§5.7 HIN to KG</p><div class="pair"><figure><figcaption>Submitted</figcaption><a href="gallery/old/ARNO.jpg" class="zoom "><img loading="lazy" src="gallery/old/ARNO.jpg" alt="ArNO ontology modules"></a><p class="cap">The ontologies combined in the ArNO ontology grouped by the concept domain they are used for. Licence -- Mattis thor Straten et al., CC BY 4.0.</p></figure><figure class="new none"><figcaption>New</figcaption><div class="empty">no new version yet</div></figure></div><ul><li>Low resolution (644 x 671 px): ask for a better source</li></ul></section><section id="fig10"><h2><span class="num">Fig. 10</span> Mapping of HIN node types to ArNO classes <span class="chip" style="background:#166534">new figure ready</span></h2><p class="sec">§5.7 HIN to KG</p><div class="pair"><figure><figcaption>Submitted</figcaption><a href="gallery/old/ARNONetworkSchema.jpg" class="zoom "><img loading="lazy" src="gallery/old/ARNONetworkSchema.jpg" alt="Mapping of HIN node types to ArNO classes"></a><p class="cap">The mapping of the spatial node types of the HIN networks schema (on the right) to the hierarchical ArNO ontology classes. Licence -- Mattis thor Straten et al., CC BY 4.0.</p></figure><figure class="new"><figcaption>New</figcaption><a href="out/fig10_arno_spatial.png" class="zoom "><img loading="lazy" src="out/fig10_arno_spatial.png" alt="Mapping of HIN node types to ArNO classes"></a><p class="cap">Spatial classes of the Archaeo-Natural Ontology (ArNO) and their use in the Poseidon network schema. (A) Class hierarchy: hollow arrows point from a subclass to its superclass; the four classes defined in ArNO (red outline, Discovery Site, Site, Place, Country) sit below the Pleiades, LADO, GeoSPARQL and CIDOC CRM classes that they extend. (B) The spatial node types of the Poseidon network: an ancient DNA sample is found at a discovery site, which lies at a site, at a place, in a country; the discovery site has a point geometry with a WKT literal, and the nodes carry labels and, for the country, an ISO code. Dark orange: classes; white: literals; amber: object and data properties. Redrawn after Mattis thor Straten et al. (2025) from ArNO and poseidon2lod. Licence: Mattis thor Straten and Florian Thiery, CC BY 4.0.</p></figure></div><ul><li>Redrawn from data/ArNO.ttl (commit 5b1ad40) and poseidon2lod; the old picture mixed a Protege screenshot with a slide</li><li>Differences to the old picture (to be checked with Mattis thor Straten): only the Discovery Site has a geometry in poseidon2lod (the old picture also gave the Site a WKT point); ArNO.ttl spells disovery in the label of foundAtDiscoverySite (corrected in the figure)</li><li>Licence of the old picture: Mattis thor Straten et al., CC BY 4.0; the new figure is a redraw, say so in the caption</li></ul></section><section id="z2"><h2><span class="num">New Z2</span> One Ogham stone in five modelling styles <span class="chip" style="background:#166534">new figure ready</span></h2><p class="sec">§3 or §4 (placement open)</p><div class="pair single"><figure class="new"><a href="out/z2_one_stone_five_models.png" class="zoom "><img loading="lazy" src="out/z2_one_stone_five_models.png" alt="One Ogham stone in five modelling styles"></a><p class="cap">One coordinate in five modelling styles, shown for the Ogham stone Coumeenole North (Macalister 1945, textual description). (A) Wikidata: coordinate location with its qualifiers. (B) fuzzy-sl Wikibase: the coordinate statement carries certainty level, method, precision and location type as qualifiers. (C) RDF with GeoSPARQL: the point is a geo:asWKT literal of a geometry resource. (D) Labelled property graph: the point is a property of the node. (E) Heterogeneous information network: the point is a node of its own, so that nearby geolocations can be linked by distance classes. Red outline: where the coordinate sits. Data: Wikidata (CC0), fuzzy-sl Wikibase, Florian Thiery, CC BY 4.0.</p></figure></div><ul><li>Panel A read from data/wd/ (fetch_wd.py, run on the Windows machine)</li></ul></section><section id="z3"><h2><span class="num">New Z3</span> Where the showcases are <span class="chip" style="background:#166534">new figure ready</span></h2><p class="sec">§5 (overview)</p><div class="pair single"><figure class="new"><a href="out/z3_showcase_map.png" class="zoom "><img loading="lazy" src="out/z3_showcase_map.png" alt="Where the showcases are"></a><p class="cap">Where the spatial showcases are. (A) Europe and the Mediterranean: coordinate statements of the fuzzy-sl Wikibase (61; Ogham stones, Roman Britain, Bruttium coin finds, Campanian Ignimbrite and others), the Campanian Ignimbrite findspots of the geo-lod graph (74) and the BB-5KBC findspots (540). (B) The 365 SISAL caves of the geo-lod graph; the red frame marks panel A. The property-graph and HIN showcases are not mapped because they have no point dataset of their own. Base map: Natural Earth, public domain.</p></figure></div><ul><li>Colour = infrastructure (Wikibase vs. bespoke RDF pipeline); LPG and HIN showcases have no point data</li></ul></section><section id="unused"><h2><span class="num">Not used</span> Map of the Moselle (not referenced in the LaTeX source)</h2><div class="pair single"><figure><a href="gallery/old/moselkarte.jpg" class="zoom "><img loading="lazy" src="gallery/old/moselkarte.jpg" alt="Map of the Moselle (not referenced in the LaTeX source)"></a></figure></div><ul><li>Decision pending: drop it or use it as an orientation map</li></ul></section></main>
 <div id="lb"><img alt=""></div>
 <script>const lb=document.getElementById('lb'),li=lb.querySelector('img');document.querySelectorAll('a.zoom').forEach(a=>a.addEventListener('click',e=>{e.preventDefault();li.src=a.href;lb.style.display='flex'}));lb.addEventListener('click',()=>lb.style.display='none');document.addEventListener('keydown',e=>{if(e.key==='Escape')lb.style.display='none'});</script>
 </body></html>

diff --git a/deRSE26/figures/figs.py b/deRSE26/figures/figs.py
@@ -799,8 +799,9 @@ def fig5():
     geom = g.value(S, U(GEO + 'hasGeometry')); wkt = str(g.value(geom, U(GEO + 'asWKT')))
     m = re.match(r'POINT\s*\(\s*([-\d.]+)\s+([-\d.]+)\)', wkt); lon, lat = float(m.group(1)), float(m.group(2))
     act = g.value(S, U(B + 'wurdeGeoreferenziertDurch'))
-    prec = g.value(S, U(B + 'hatGenauigkeit'))
-    rows = [('geo:hasGeometry', f'POINT({m.group(1)} {m.group(2)})', 'lit'), ('hatGenauigkeit', f'{float(prec):g} m', 'lit'),
+    prec = g.value(S, U(B + 'hatGenauigkeit'))  # the bundle still stores 0.0; the published value (coordinates rounded to 2 decimals, up to 1000 m) is set by hand, as is the planned precision of 0.01 degrees
+    assert float(prec) == 0.0
+    rows = [('geo:hasGeometry', f'POINT({m.group(1)} {m.group(2)})', 'lit'), ('hatGenauigkeit', '\u00b1 1000 m', 'lit'), ('precision', '\u00b1 0.01\u00b0', 'lit'),
             ('fsl:certaintyLevel', L(g.value(S, U(FSL + 'certaintyLevel'))), 'term'), ('fsl:hasLocationType', L(g.value(S, U(FSL + 'hasLocationType'))), 'term'),
             ('inGemeinde', L(g.value(S, U(B + 'inGemeinde'))), 'inst'), ('wurdeGeoreferenziertDurch', L(act), 'inst')]
     # map of the 540 findspots
@@ -812,7 +813,7 @@ def fig5():
     f.o.append(f'<circle cx="{X(lon):.1f}" cy="{Y(lat):.1f}" r="17" fill="none" stroke="{RED}" stroke-width="4"/>')
     # instance card
     BX, ix = 1000, 780
-    n = len(rows); pitch = 84; top = my + (mh - (n - 1) * pitch) / 2; cyc = top + (n - 1) * pitch / 2
+    n = len(rows); pitch = 74; top = my + (mh - (n - 1) * pitch) / 2; cyc = top + (n - 1) * pitch / 2
     f.box(ix, cyc - 50, 190, 100, INST, [L(S), sid])
     ys = [top + i * pitch for i in range(n)]
     line(ix + 190, cyc, BX, cyc, mk=False); line(BX, ys[0], BX, ys[-1], mk=False)
